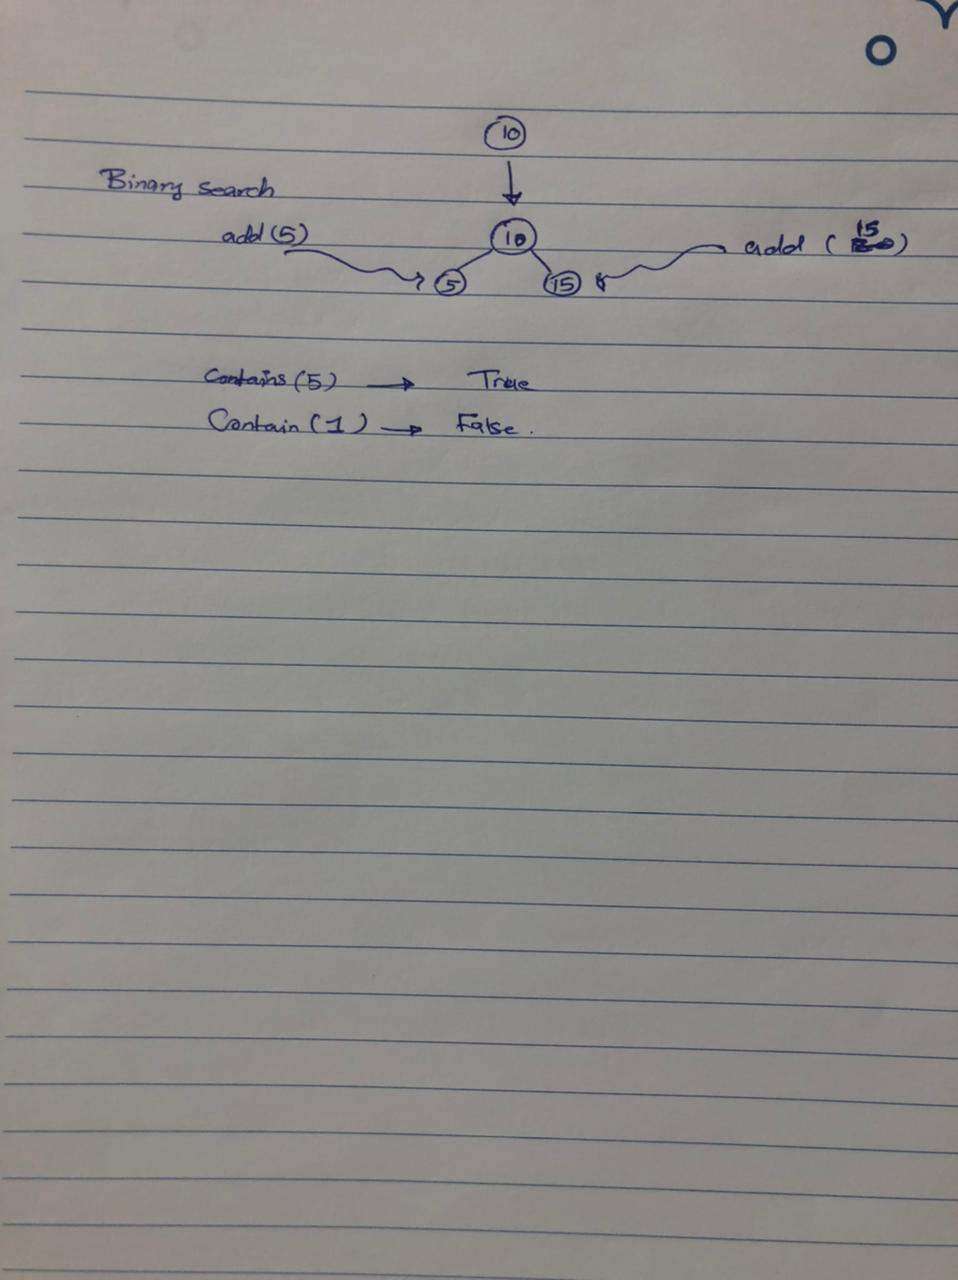
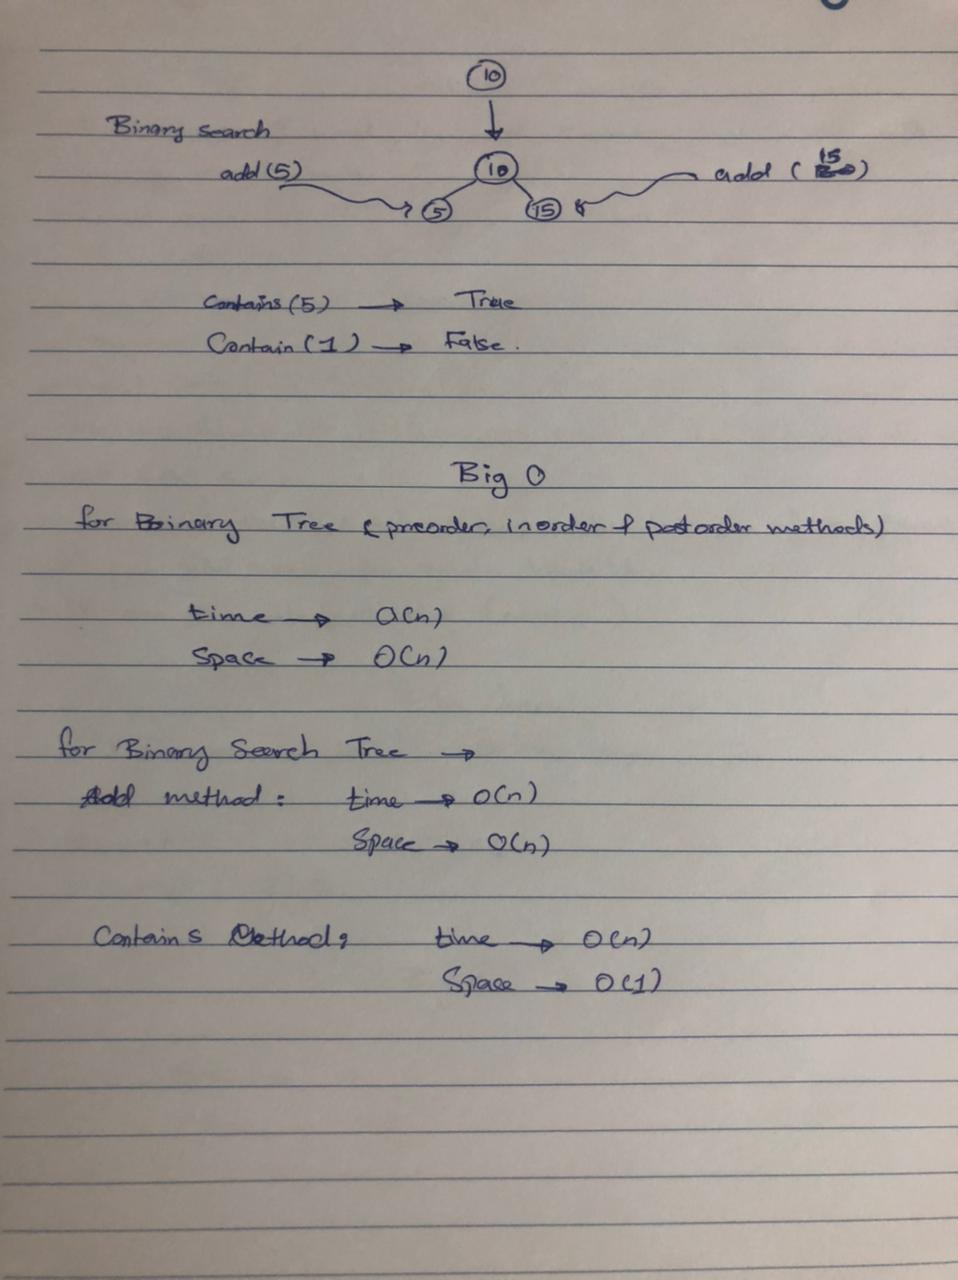
findmax done

diff --git a/javascript/tree/tree.test.js b/javascript/tree/tree.test.js
@@ -84,7 +84,7 @@ describe('Binary Tree', () => {
 describe('Binary Search Tests', () => {
   beforeAll(() => {
     let one = new Node(10);// tree root
- 
+
     tree=new BinarySearchTree(one);
 
     //      10
@@ -115,7 +115,38 @@ describe('Binary Search Tests', () => {
       tree.contains(null);
     }
     expect(x).toThrow();
+
+  });
+});
+
+describe('Binary Tests for maximum number method', () => {
+  beforeAll(() => {
+    let one = new Node(1);// tree root
+    let two = new Node(2);
+    let three = new Node(3);
+    let four = new Node(4);
+    let five = new Node(5);
+    let six = new Node(6);
+    one.left = two;//
+    one.right = three;//
+    two.left = six;//
+    three.left = four;
+    three.right = five;
+    tree = new BinaryTree(one);
  
+  });
+
+  it('1- Can find the maximum number of the tree I have',()=>{
+    let x= tree.findMaximumValue();
+    expect(x).toEqual(6);
+  });
+
+  it('2- Can throw an error for an empty tree',()=>{
+    let treeNew = new BinaryTree();
+    function x(){
+      treeNew.findMaximumValue();
+    }
+    expect(x).toThrow();
 
   });
 

diff --git a/javascript/tree/tree.js b/javascript/tree/tree.js
@@ -54,6 +54,31 @@ class BinaryTree{
     traverse(this.root);
     return results;
   }
+
+  findMaximumValue(){
+
+    if (this.root===null) throw new Error ('you do not  have a tree');
+    let number=0;
+    const traverse=(node)=>{
+
+      if(number<node.value){
+        number=node.value;
+        // console.log('number', number);
+      }
+      if(node.left!== null){
+        // console.log('node', node);
+        traverse(node.left);
+
+      }
+      // console.log('number after left',number);
+      if(node.right!== null) {
+        // console.log('node', node);
+        traverse(node.right);
+      }
+    };
+    traverse(this.root);
+    return number;
+  }
 }
 
 
@@ -93,7 +118,6 @@ class BinarySearchTree {
     //   search right
     // else search left
 
-    //   if (this.root === null) return 'Empty Tree';
 
     if (value===null || value ==='') throw new Error ('please enter a valid value');
     if (this.root===null) throw new Error ('you do not  have a tree');

diff --git a/javascript/tree/readme.md b/javascript/tree/readme.md
@@ -16,10 +16,26 @@ Define a method for each of the depth first traversals called preOrder, inOrder,
 ![img](./img/1-tree.jpeg)
 ![img](./img/2-tree.jpeg)
 ![img](./img/3-tree.jpeg)
-
+![img](./img/4-treeFindmax-1.jpeg)
+![img](./img/5-treeFindmax-2.jpeg)
 ## API
 <br>
+
+### For Binary Tree Class
+
+- `preOrder`, `inOrder`, and `postOrder` methods which return an array of the values, ordered appropriately.
+
+ - `findMaximumValue` method return the maximum value(numeric) stored in the tree. 
+
+### For Binary Search Tree Class
 
  - `Add ` method accepts a value, and adds a new node with that value in the correct location in the binary search tree.
   
 - `contains` method accepts a value, and returns a boolean indicating whether or not the value is in the tree at least once.
+
+
+## Solution
+
+[CLICK ON ME FOR SOLUTION CODE](./tree.js)
+
+

diff --git a/README.md b/README.md
@@ -29,6 +29,6 @@ Each day, you'll add one new file to this folder to do your work for the day's a
 |FIFO animal shelter|[readme](./javascript/code-challenges/fifoAnimalShelter/readme.md)|
 |Multi Bracket Validation|[readme](./javascript/code-challenges/multiBracketValidation/readme.md)|
 |Tree|[readme](./javascript/tree/readme.md)|
-
+|Multi Bracket Validation|[readme](./javascript/code-challenges/multiBracketValidation/readme.md)|
 
 
